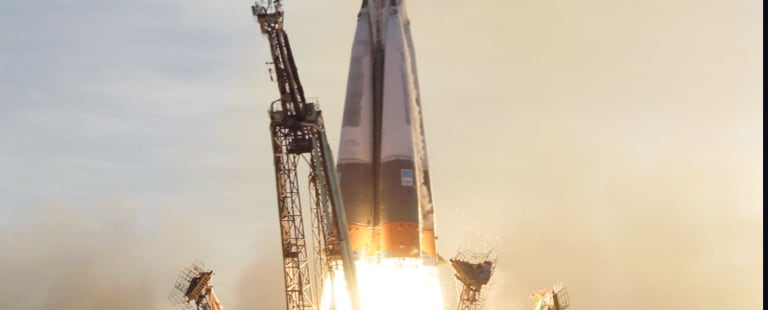
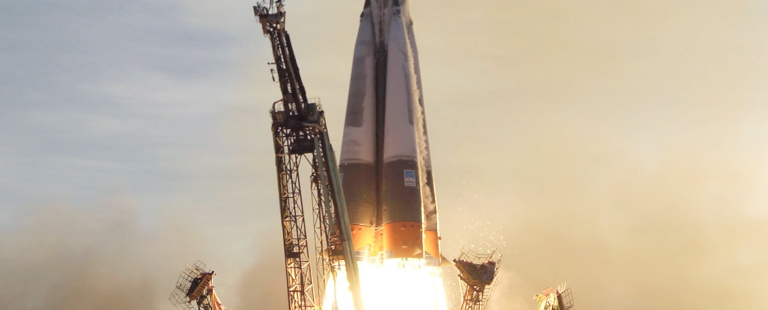
Написаны стили для technology

diff --git a/source/css/styles.css b/source/css/styles.css
@@ -235,6 +235,52 @@ body {
     .crew__info {
       font-size: 1.125rem; } }
 
+.technology__nav-btn {
+  font-family: "Bellefair";
+  color: #FFFFFF;
+  text-decoration: none;
+  line-height: 1; }
+  @media screen and (min-width: 1440px) {
+    .technology__nav-btn {
+      font-size: 2rem; } }
+  .technology__nav-btn_active {
+    color: #0B0D17; }
+
+.technology__title {
+  font-family: "Bellefair";
+  text-transform: uppercase;
+  font-weight: 400;
+  font-size: 1.5rem; }
+  @media screen and (min-width: 768px) {
+    .technology__title {
+      font-size: 2.5rem; } }
+  @media screen and (min-width: 1440px) {
+    .technology__title {
+      font-size: 3.5rem; } }
+
+.technology__span {
+  text-transform: uppercase;
+  letter-spacing: 0.16875em;
+  font-size: 0.875rem;
+  color: #D0D6F9; }
+  @media screen and (min-width: 768px) {
+    .technology__span {
+      font-size: 1rem; } }
+
+.technology__info {
+  font-family: "Barlow";
+  font-size: 0.9375rem;
+  line-height: 1.67;
+  color: #D0D6F9; }
+  @media screen and (min-width: 768px) {
+    .technology__info {
+      font-size: 1rem;
+      line-height: 1.75; } }
+  @media screen and (min-width: 1440px) {
+    .technology__info {
+      font-size: 1.125rem;
+      line-height: 2rem; } }
+
 section {
   display: none; }
 
@@ -575,3 +621,73 @@ section {
         margin-bottom: 27px; } }
   .crew__info {
     max-width: 445px; }
+
+.technology {
+  flex-direction: column;
+  text-align: center;
+  margin-top: 24px; }
+  @media screen and (min-width: 768px) {
+    .technology {
+      margin-top: 40px;
+      padding-bottom: 70px; } }
+  @media screen and (min-width: 1440px) {
+    .technology .section__content-container {
+      flex-direction: row;
+      gap: 80px; }
+    .technology .section__title {
+      margin-bottom: 26px; } }
+  .technology__image-container {
+    margin-bottom: 34px; }
+    @media screen and (min-width: 768px) {
+      .technology__image-container {
+        margin-bottom: 56px; } }
+    @media screen and (min-width: 1440px) {
+      .technology__image-container {
+        order: 3;
+        margin-left: auto; } }
+  .technology__image {
+    object-fit: cover; }
+    @media screen and (min-width: 1440px) {
+      .technology__image {
+        content: url(../../images/technology/image-launch-vehicle-portrait.jpg); } }
+  .technology__nav {
+    display: flex;
+    gap: 16px;
+    margin-bottom: 26px; }
+    @media screen and (min-width: 768px) {
+      .technology__nav {
+        margin-bottom: 44px; } }
+    @media screen and (min-width: 1440px) {
+      .technology__nav {
+        flex-direction: column;
+        margin-left: 165px;
+        gap: 32px; } }
+    .technology__nav-btn {
+      width: 40px;
+      padding: 11px 0;
+      border: 1px solid rgba(255, 255, 255, 0.25);
+      border-radius: 50%; }
+      @media screen and (min-width: 1440px) {
+        .technology__nav-btn {
+          width: 80px;
+          padding: 24px 0; } }
+      .technology__nav-btn_active {
+        border: none;
+        background-color: #FFFFFF; }
+  .technology__content {
+    display: flex;
+    flex-direction: column;
+    gap: 16px; }
+    @media screen and (min-width: 1440px) {
+      .technology__content {
+        text-align: left;
+        margin-bottom: 40px; } }
+  .technology__span {
+    order: -1; }
+  .technology__info {
+    max-width: 450px;
+    margin: 0 24px; }
+    @media screen and (min-width: 1440px) {
+      .technology__info {
+        margin: 0;
+        max-width: 444px; } }

diff --git a/source/sass/base/_typography.scss b/source/sass/base/_typography.scss
@@ -1,3 +1,5 @@
+//Общие стили
+
 *{
     line-height: 1.2;
 }
@@ -27,6 +29,8 @@
     }
 }
 
+//стили для навигации (header destination)
+
 .nav-link:link{
     font-size: 0.875rem;
     text-transform: uppercase;
@@ -38,6 +42,8 @@
         font-size: 1rem;
     }
 }
+
+//стили для header
 
 .header{
     line-height: 1.06rem;
@@ -51,6 +57,8 @@
         font-weight: 700;
     }
 }
+
+// стили для home
 
 .home{
     &__title{
@@ -119,6 +127,8 @@
     }
 }
 
+//стили для destination
+
 .destination{
     .nav-link{
         color: $color-secondary;
@@ -179,6 +189,8 @@
     }
 }
 
+// стили для crew
+
 .crew{
     &__content{
         font-weight: 400;
@@ -225,6 +237,70 @@
 
         @media screen and (min-width: 1440px) {
             font-size: 1.125rem;
+        }
+    }
+}
+
+// стили для technology
+
+.technology{
+    &__nav{
+        &-btn{
+            font-family: "Bellefair";
+            color: $color-light-main;
+            text-decoration: none;
+            line-height: 1;
+
+            @media screen and (min-width: 1440px) {
+                font-size: 2rem;
+            }
+
+            &_active{
+                color: $color-dark-main;
+            }
+        }
+    }
+
+    &__title{
+        font-family: "Bellefair";
+        text-transform: uppercase;
+        font-weight: 400;
+        font-size: 1.5rem;
+
+        @media screen and (min-width: 768px) {
+            font-size: 2.5rem;
+        }
+
+        @media screen and (min-width: 1440px) {
+            font-size: 3.5rem;
+        }
+    }
+
+    &__span{
+        text-transform: uppercase;
+        letter-spacing: $letter-spacing-default;
+        font-size: 0.875rem;
+        color: $color-secondary;
+
+        @media screen and (min-width: 768px) {
+            font-size: 1rem;
+        }
+    }
+
+    &__info{
+        font-family: "Barlow";
+        font-size: 0.9375rem;
+        line-height: 1.67;
+        color: $color-secondary;
+
+        @media screen and (min-width: 768px) {
+            font-size: 1rem;
+            line-height: 1.75;
+        }
+
+        @media screen and (min-width: 1440px) {
+            font-size: 1.125rem;
+            line-height: 2rem;
         }
     }
 }

diff --git a/source/sass/pages/_technology.scss b/source/sass/pages/_technology.scss
@@ -1,0 +1,100 @@
+.technology{
+    flex-direction: column;
+    text-align: center;
+    margin-top: 24px;
+    
+    @media screen and (min-width: 768px) {
+        margin-top: 40px;
+        padding-bottom: 70px;
+    }
+
+    @media screen and (min-width: 1440px) {
+        .section__content-container{
+            flex-direction: row;
+            gap: 80px;
+        }
+
+        .section__title{
+            margin-bottom: 26px;
+        }
+    }
+
+    &__image-container{
+        margin-bottom: 34px;
+
+        @media screen and (min-width: 768px) {
+            margin-bottom: 56px;
+        }
+
+        @media screen and (min-width: 1440px) {
+            order: 3;
+            margin-left: auto;
+        }
+    }
+
+    &__image{
+        object-fit: cover;
+
+        @media screen and (min-width: 1440px) {
+            content: url(../../images/technology/image-launch-vehicle-portrait.jpg);
+        }
+    }
+
+    &__nav{
+        display: flex;
+        gap: 16px;
+        margin-bottom: 26px;
+
+        @media screen and (min-width: 768px) {
+            margin-bottom: 44px;
+        }
+
+        @media screen and (min-width: 1440px) {
+            flex-direction: column;
+            margin-left: 165px;
+            gap: 32px;
+        }
+
+        &-btn{
+            width: 40px;
+            padding: 11px 0;
+            border: 1px solid rgba($color-light-main, $alpha: .25);
+            border-radius: 50%;
+
+            @media screen and (min-width: 1440px) {
+                width: 80px;
+                padding: 24px 0;
+            }
+
+            &_active{
+                border: none;
+                background-color: $color-light-main;
+            }
+        }
+    }
+
+    &__content{
+        display: flex;
+        flex-direction: column;
+        gap: 16px;
+
+        @media screen and (min-width: 1440px) {
+            text-align: left;
+            margin-bottom: 40px;
+        }
+    }
+
+    &__span{
+        order: -1;
+    }
+
+    &__info{
+        max-width: 450px;
+        margin: 0 24px;
+
+        @media screen and (min-width: 1440px) {
+            margin: 0;
+            max-width: 444px;
+        }
+    }
+}

diff --git a/source/index.html b/source/index.html
@@ -11,7 +11,7 @@
     <title>Space Tourism</title>
 </head>
 <body>
-    <div class="container crew-active">
+    <div class="container technology-active">
         <header class="header">
             <div class="header__logo">
                 <img src="images/shared/logo.svg" alt="logo">
@@ -108,17 +108,19 @@
             <section id="technology" class="technology">
                 <h2 class="section__title"><span class="section__number">03</span>Space launch 101</h2>
                 <div class="section__content-container">
+                    <div class="technology__image-container">
+                        <img class="technology__image" src="images/technology/image-launch-vehicle-landscape.jpg" alt="launch photo">
+                    </div>
                     <div class="technology__nav">
-                        <a href=""></a>
-                        <a href=""></a>
-                        <a href=""></a>
+                        <a class="technology__nav-btn technology__nav-btn_active" href="#">1</a>
+                        <a class="technology__nav-btn" href="#">2</a>
+                        <a class="technology__nav-btn" href="#">3</a>
                     </div>
                     <div class="technology__content">
-                        <h3 class="content-title">Launch vehicle</h3>
+                        <h3 class="technology__title">Launch vehicle</h3>
                         <span class="technology__span">The terminology...</span>
                         <p class="technology__info">A launch vehicle or carrier rocket is a rocket-propelled vehicle used to carry a payload from Earth's surface to space, usually to Earth orbit or beyond. Our WEB-X carrier rocket is the most powerful in operation. Standing 150 metres tall, it's quite an awe-inspiring sight on the launch pad!</p>
                     </div>
-                    <img src="images/launchVehicle.webp" alt="launch photo">
                 </div>
             </section>
         </main>

diff --git a/source/sass/main.scss b/source/sass/main.scss
@@ -11,3 +11,4 @@
 @import "pages/home";
 @import "pages/destination";
 @import "pages/crew";
+@import "pages/technology";
